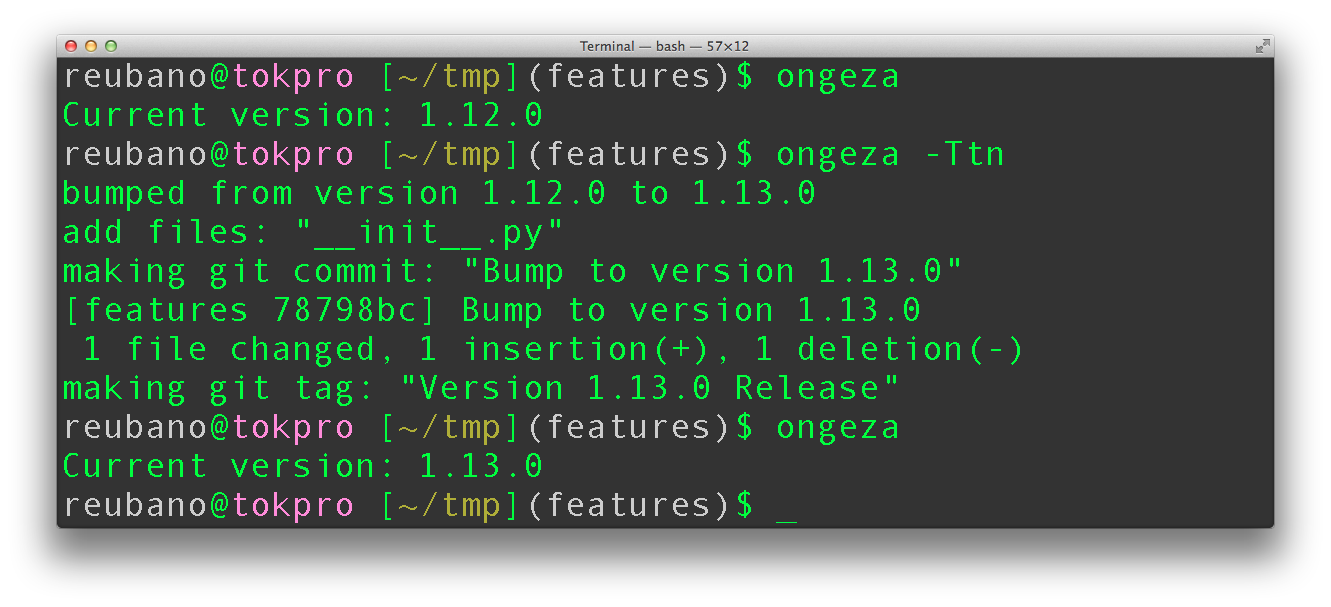
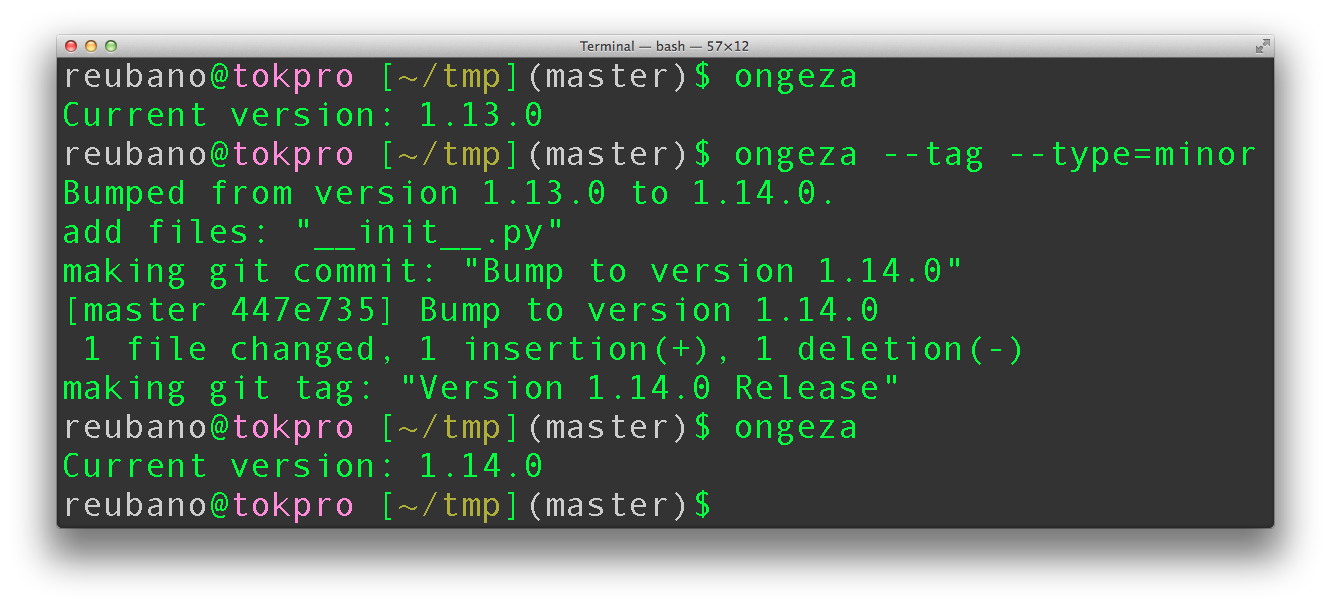
Update readme and replace example image

diff --git a/README.rst b/README.rst
@@ -44,13 +44,13 @@ inside a python ``git`` repo, simply type:
 
 .. code-block:: bash
 
-    ongeza -t minor
+    ongeza --type=minor
 
-Or via the long option style:
+Or via the short option style:
 
 .. code-block:: bash
 
-    ongeza --type=minor
+    ongeza -tn
 
 As long as the repo contains a git tag with the current version, ongeza will
 automagically:
